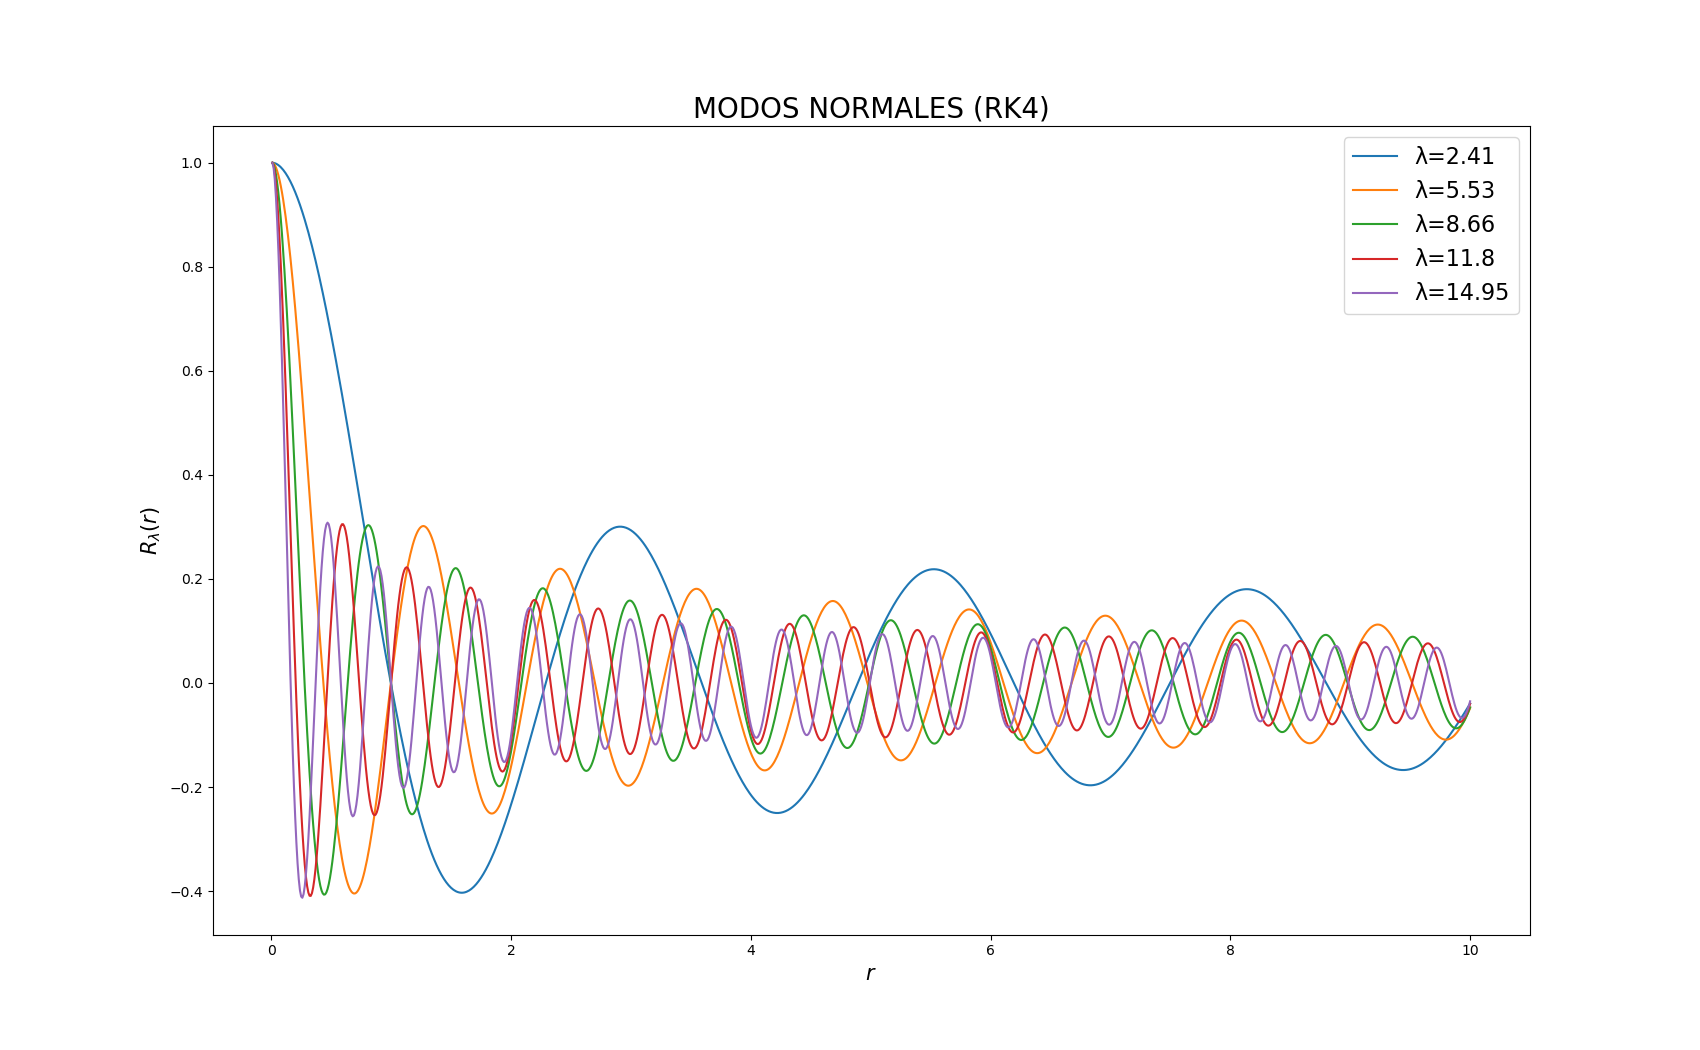
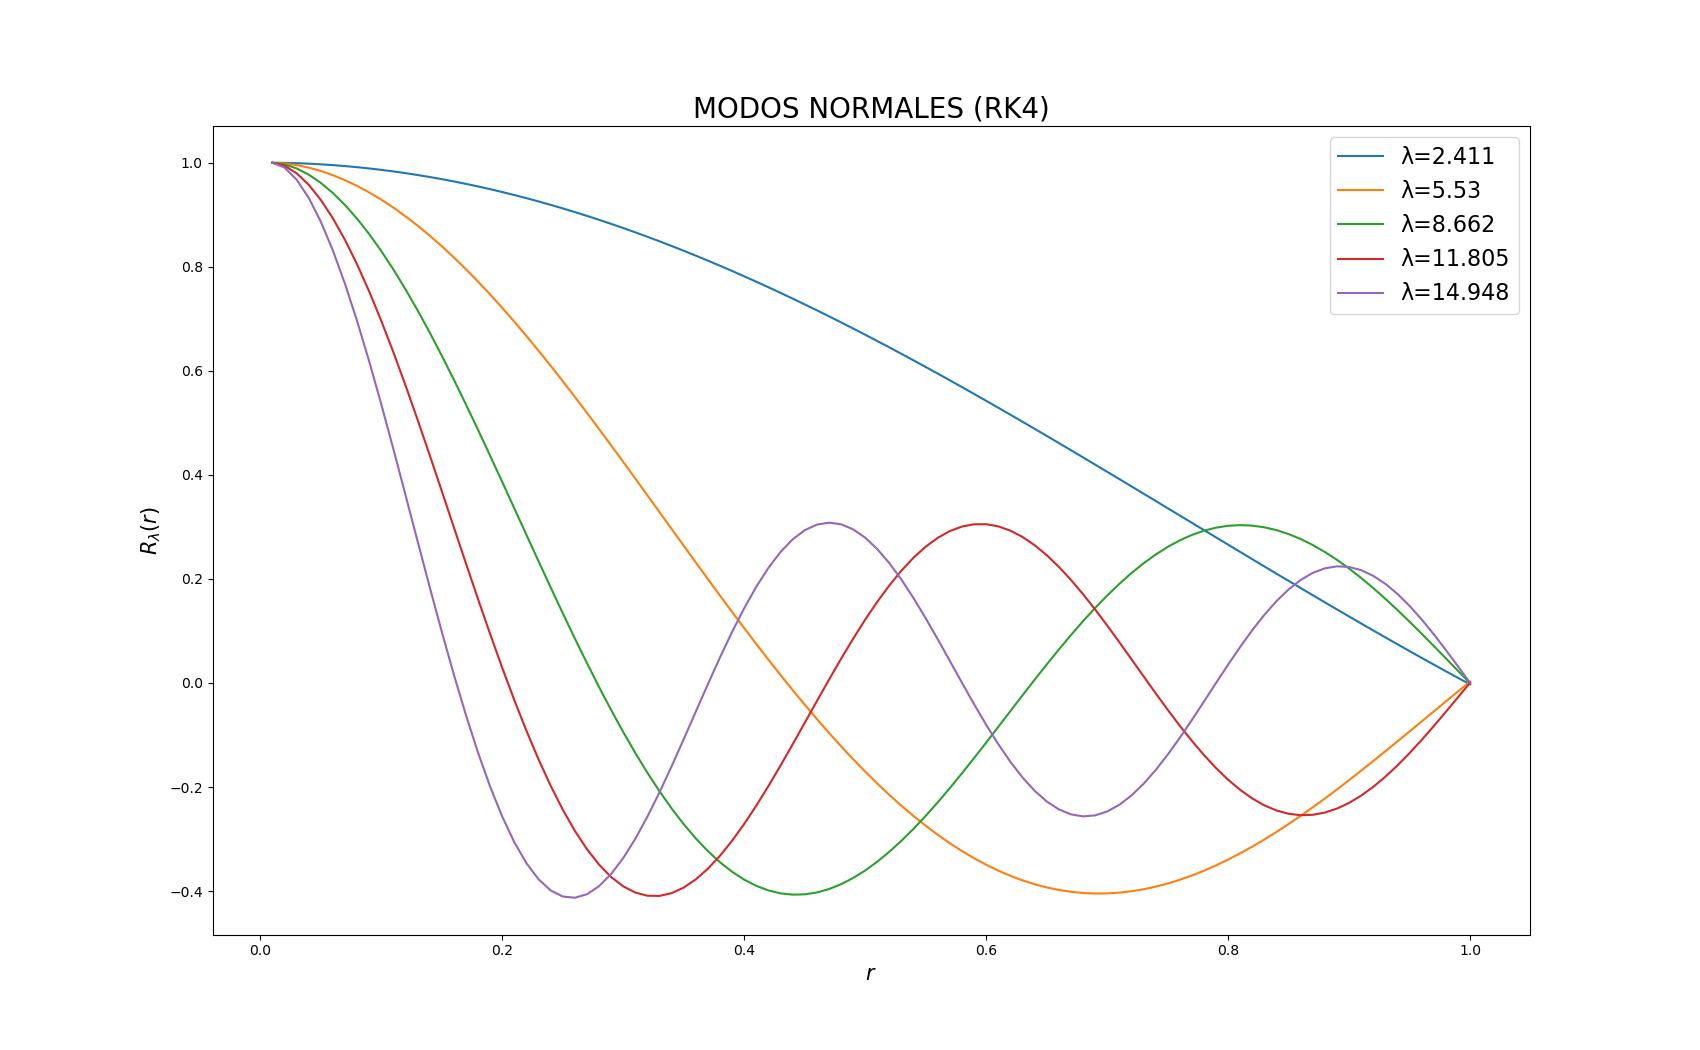
cambios finales

diff --git a/Talleres/Taller 1/LosModosDeVibracionDeUnTambor/Ejercicio_2c.py b/Talleres/Taller 1/LosModosDeVibracionDeUnTambor/Ejercicio_2c.py
@@ -63,7 +63,7 @@ def Graficar_RK4_Bessel(Lambda):
 
   #Dominio: [r0, rf]
   r0=0.01
-  rf=10.0
+  rf=1.0
 
   #Hallamos el número de pasos que se tiene que repetir el proceso hasta que se aplique RK4 con r=rf
   NPasos=int((rf-r0)/dr)+1
@@ -100,8 +100,8 @@ def Graficar_RK4_Bessel(Lambda):
     DR[i+1]=DR[i]+(K1_DR+2*K2_DR+2*K3_DR+K4_DR)/6
     r[i+1]=r[i]+dr
 
-  #Graficamos R(r) con una leyenda que contiene el valor de λ usado acotado a dos decimales
-  plt.plot(r,R, label=(u"λ={}".format(round(Lambda,2))))
+  #Graficamos R(r) con una leyenda que contiene el valor de λ usado acotado a tres decimales
+  plt.plot(r,R, label=(u"λ={}".format(round(Lambda,3))))
   plt.legend(fontsize="16")
 
 #Esta función grafica los modos normales R(r) que no dependen de la coordenada angular 𝜃,

diff --git a/Talleres/Taller 1/LosModosDeVibracionDeUnTambor/Ejercicio_2d.py b/Talleres/Taller 1/LosModosDeVibracionDeUnTambor/Ejercicio_2d.py
@@ -58,8 +58,8 @@ def CeroPorBiseccion(data, A, B, Err):
 
 #Esta función grafica la función de Bessel para un determinado λ_i
 def Graficar_integral_Bessel(Lambda_i):
-  #Dominio: [0, 10.0]
-  r=np.linspace(0, 10.0, 10*FA)
+  #Dominio: [0, 1.0]
+  r=np.linspace(0, 1.0, 10*FA)
 
   #Función de Bessel evaluada en cada punto del dominio (rango)
   Bessel_plot=np.zeros(len(r))
